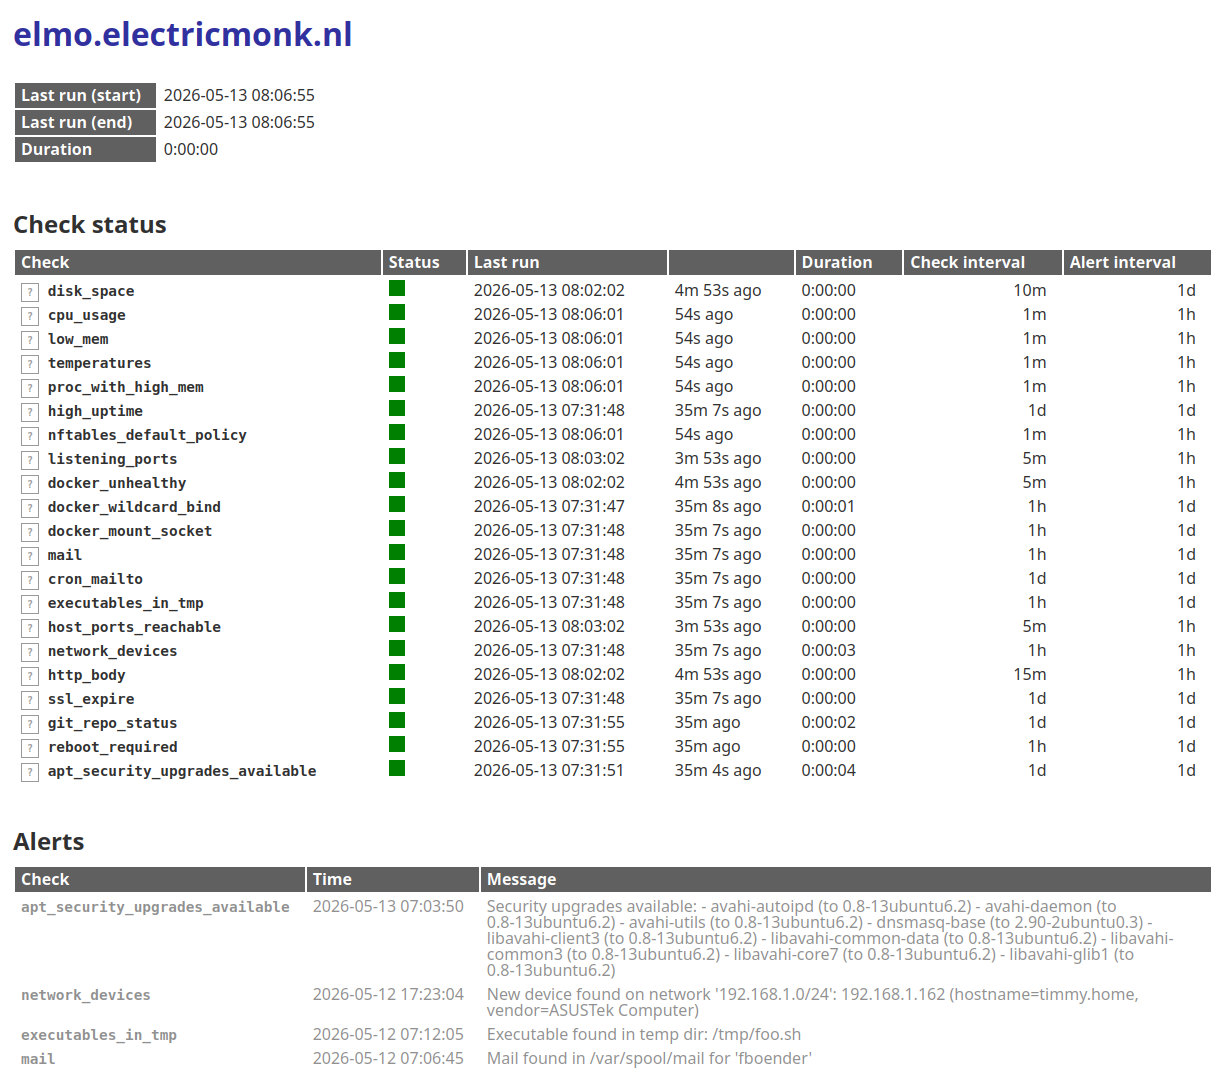
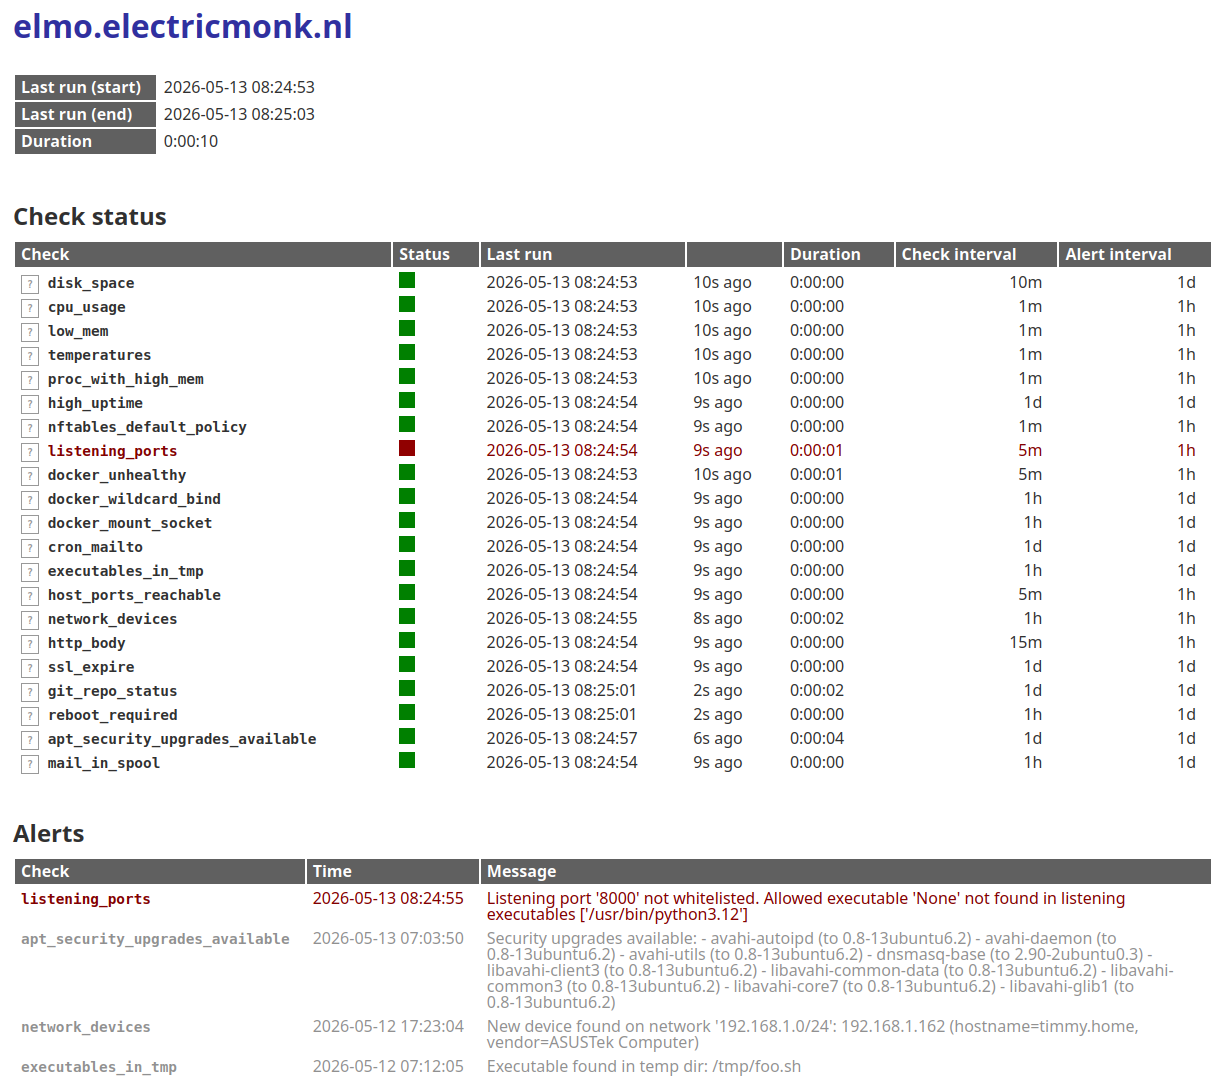
Minor update

diff --git a/checks.py b/checks.py
@@ -248,7 +248,7 @@ def ssl_expire():
             )
 
 @monpy.check(hourly, daily)
-def mail():
+def mail_in_spool():
     """
     Check if there is local mail in /var/spool/mail. This happens if the mail
     server cannot deliver mail